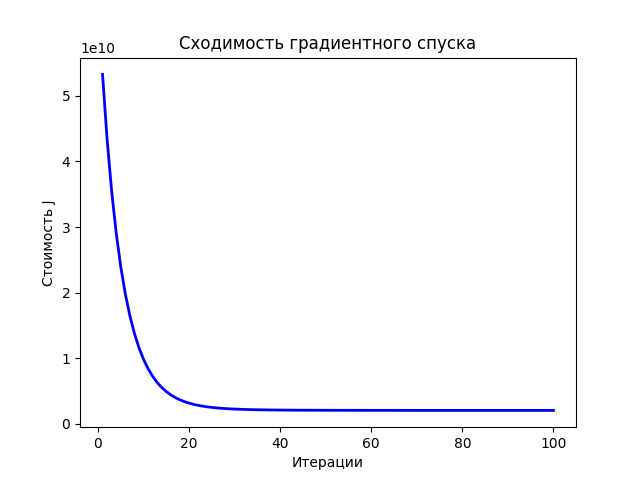
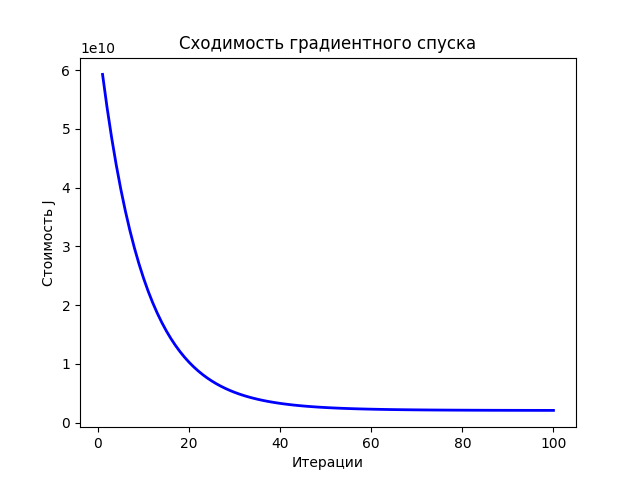
Hotfix in lab_2

diff --git a/lab_2/code/solution.py b/lab_2/code/solution.py
@@ -56,7 +56,7 @@ X_norm, mu, sigma = featureNormalize(X)
 X_norm = np.hstack((np.ones((m, 1)), X_norm))
 
 # Обучение модели с использованием градиентного спуска
-alpha = 0.1  # Скорость обучения
+alpha = 0.05  # Скорость обучения
 num_iters = 100  # Количество итераций
 theta = np.zeros(X_norm.shape[1])  # Инициализация параметров θ нулями
 theta_gd, J_history = gradientDescentMulti(X_norm, y, theta, alpha, num_iters)
